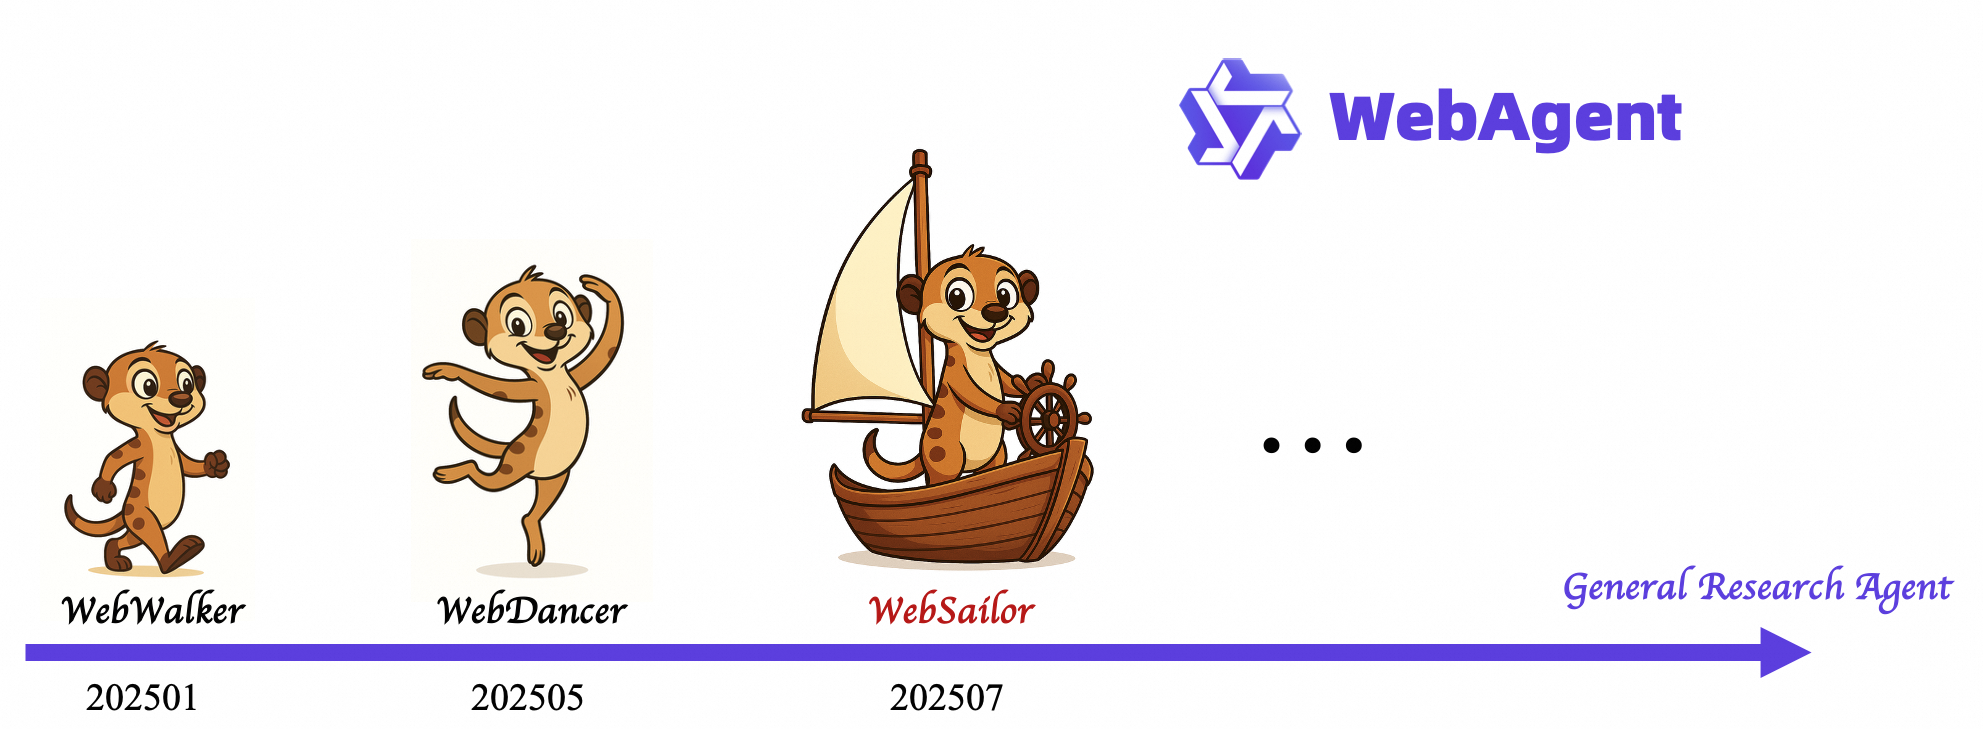
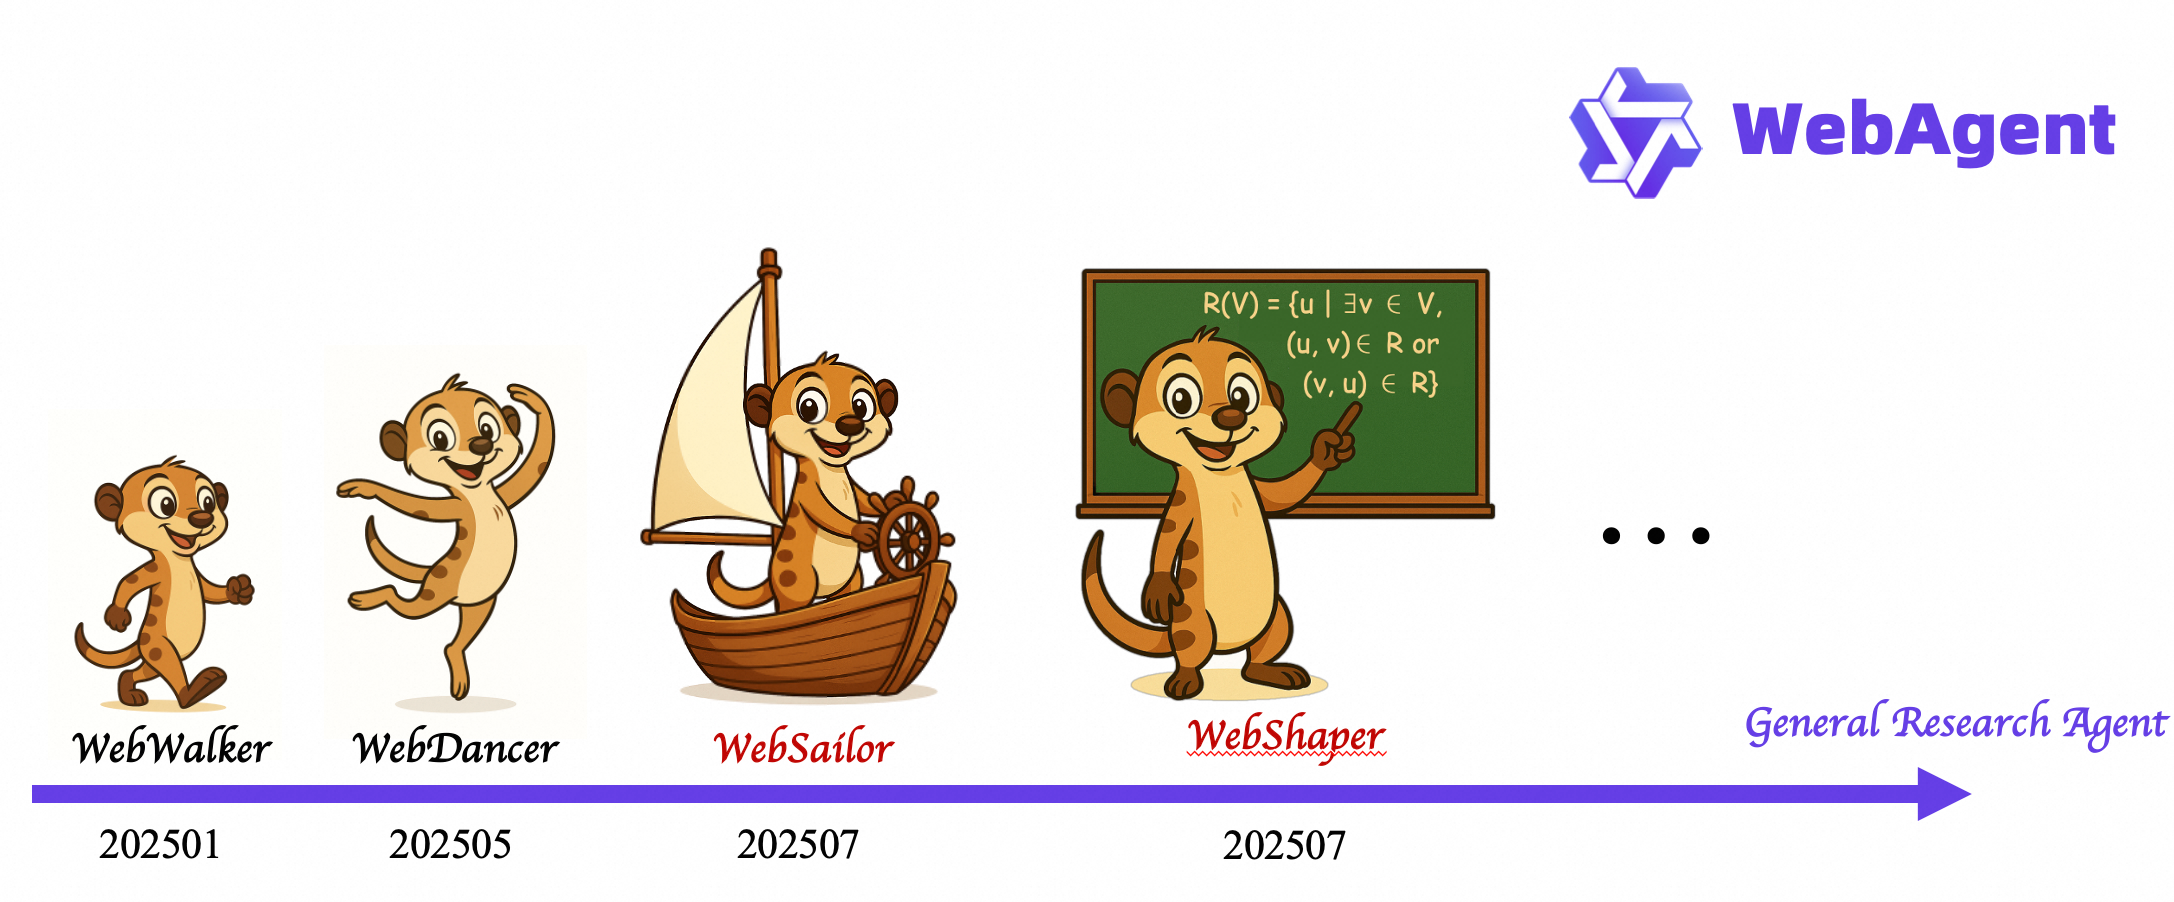
update WebShaper

diff --git a/README.md b/README.md
@@ -35,7 +35,7 @@ alt="Alibaba-NLP%2FWebAgent | Trendshift" style="width: 250px; height: 55px;" wi
 - [**WebWalker**](WebWalker) (ACL 2025) - WebWalker: Benchmarking LLMs in Web Traversal
 
 ## 📰 News and Updates
-
+- `2025.07.19` 🔥🔥🔥**WebShaper** is coming soon.
 - `2025.07.11` 🔥🔥🔥**WebSailor-3B** is [released](https://huggingface.co/Alibaba-NLP/WebSailor-3B). You can deploy it with one click using <img src="./assets/aliyun.png" width="14px" style="display:inline;"> [Alibaba Cloud's FunctionAI](https://functionai.console.aliyun.com/template-detail?template=Alibaba-NLP-WebSailor-3B) in ten minutes!
 - `2025.07.03` 🔥🔥🔥We release **WebSailor**, an agentic search model specialized in performing extremely complex information seeking tasks, achieving open-source SOTA on some of the most difficult browsing benchmarks. **WebSailor** topped the HuggingFace [daily papers](https://huggingface.co/papers/2507.02592).
 - `2025.06.23` 🔥🔥🔥The model, interactive demo, and some of the data of **WebDancer** have been open-sourced. You're welcome to try them out!
